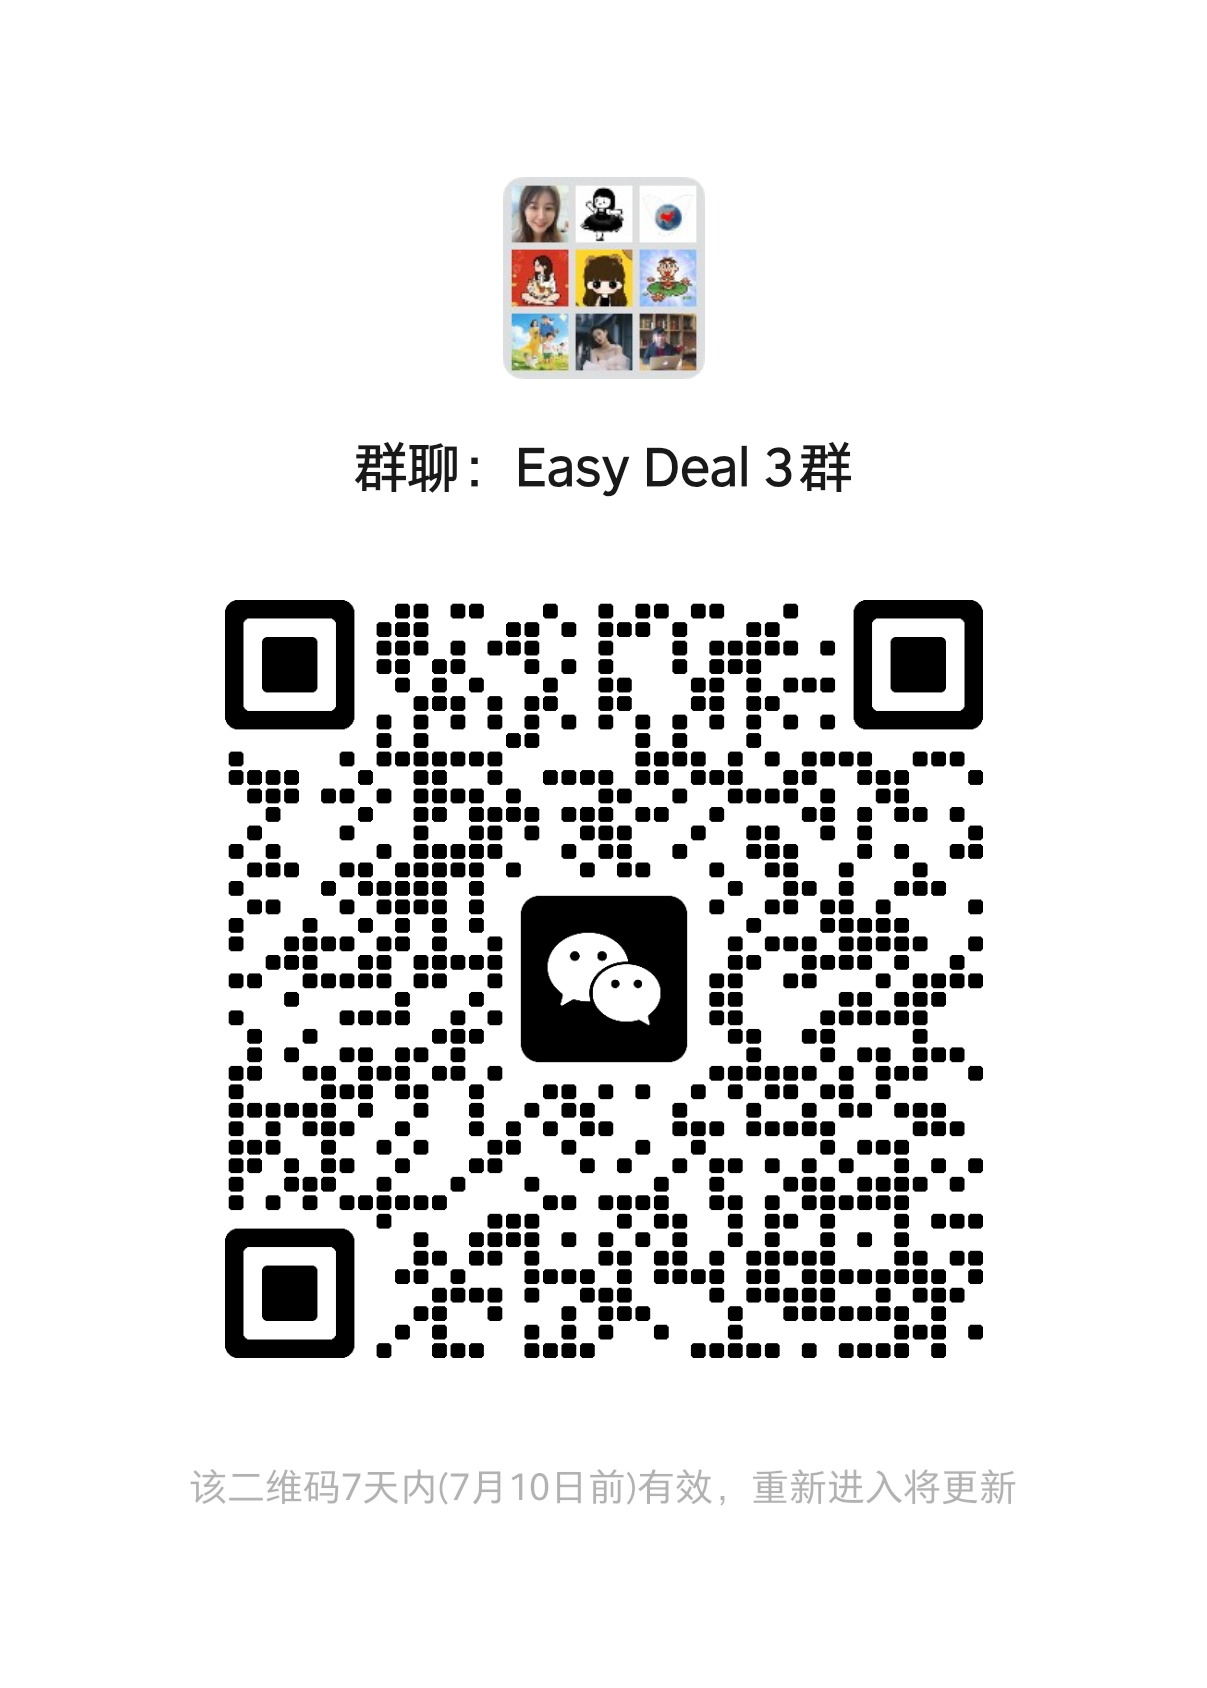
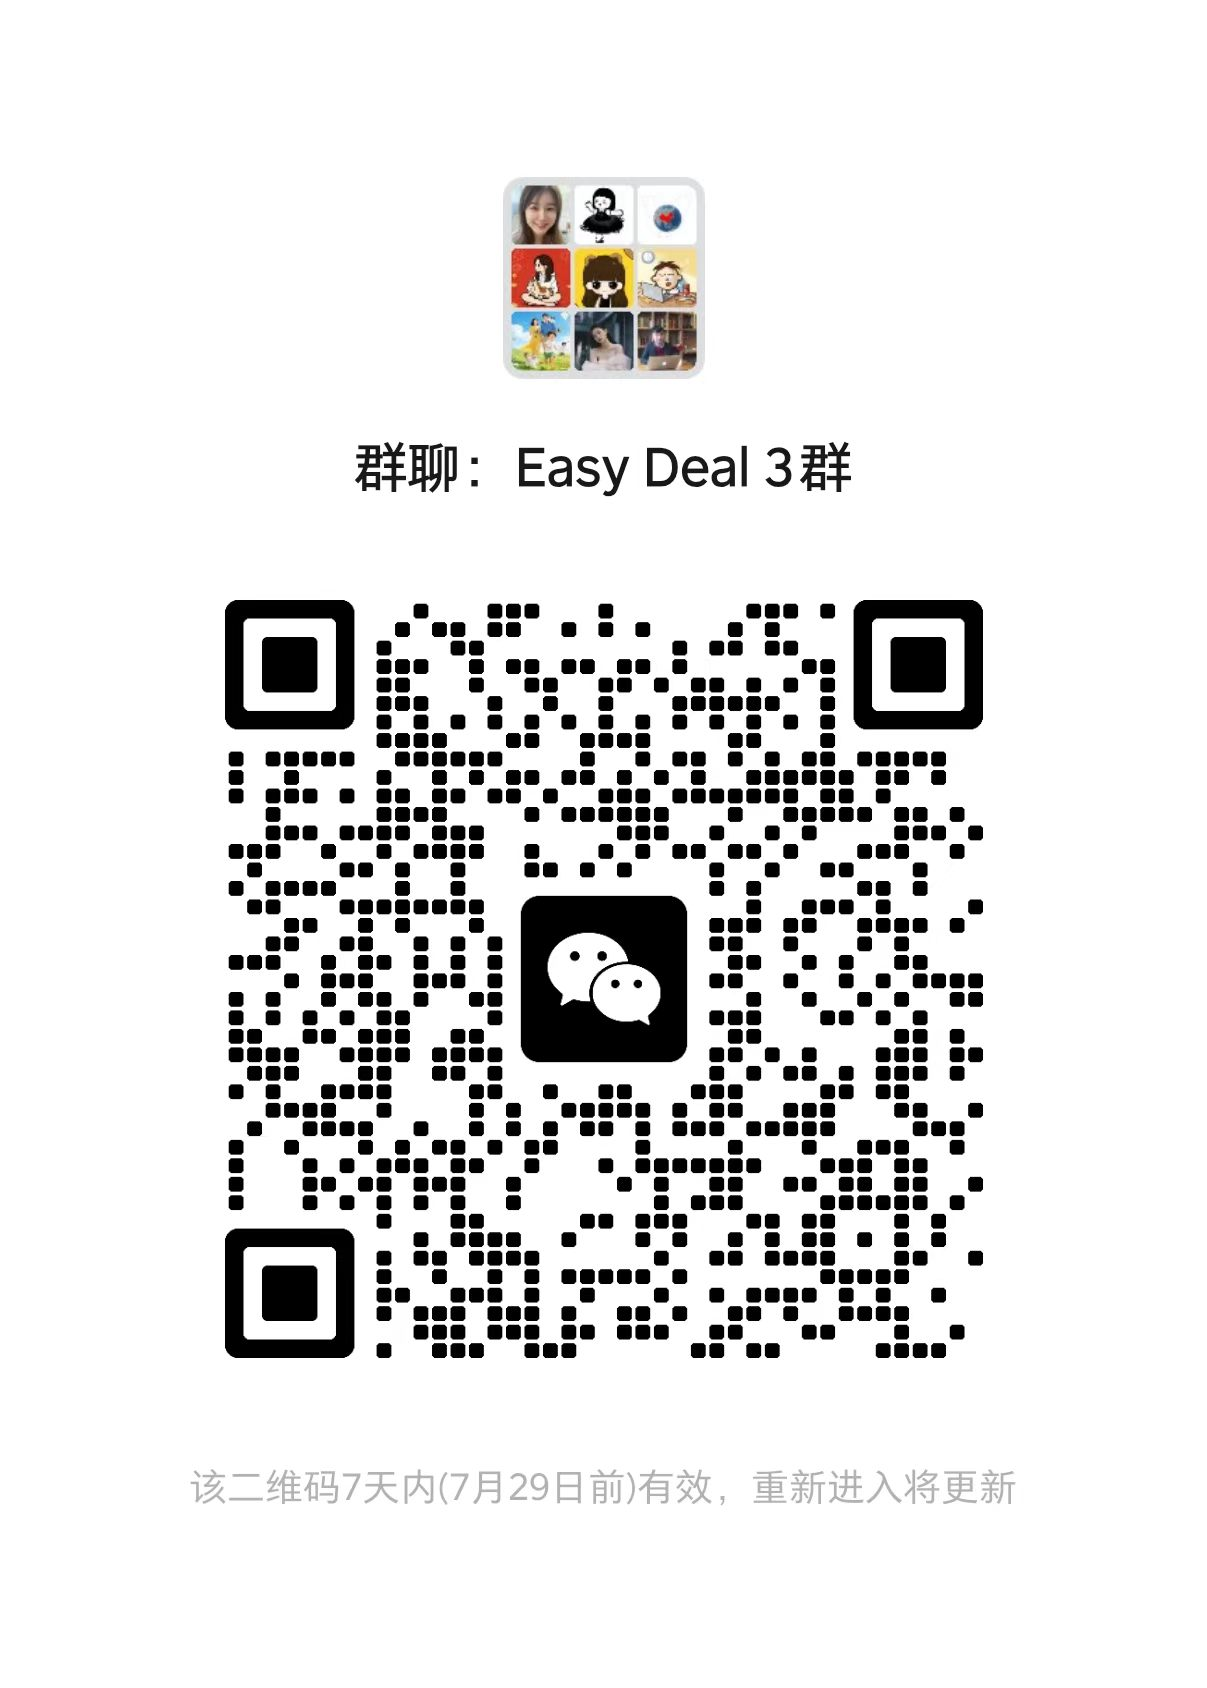
docs: 更新群二维码(7/29前有效) + README加商业客户端推广横幅
- images/wechat.png 换成新的群二维码(7天内有效, 过期需再换)
- 联系我们板块新增 images/easydeal-banner.png(电脑客户端+App下载二维码),
  替换原来纯文字的商业客户端提示

Changed region(s): [[0.1839, 0.3389, 0.8277, 0.8009], [0.4292, 0.1232, 0.5824, 0.2156], [0.4292, 0.8626, 0.4598, 0.8934]]

diff --git a/README.md b/README.md
@@ -42,8 +42,13 @@
 
 # 联系我们
 
+商业客户端（电脑客户端 + 手机 App）已正式上线，下方二维码可直接扫码下载体验：
+
+![EasyDeal 商业客户端与 App](images/easydeal-banner.png)
+
+加入交流群一起讨论策略与踩坑：
+
 ![image-20251201173859002](images/wechat.png)
-注：商业客户端已于6月2日正式上线，联系工作人员免费体验。
 
 ---
 
